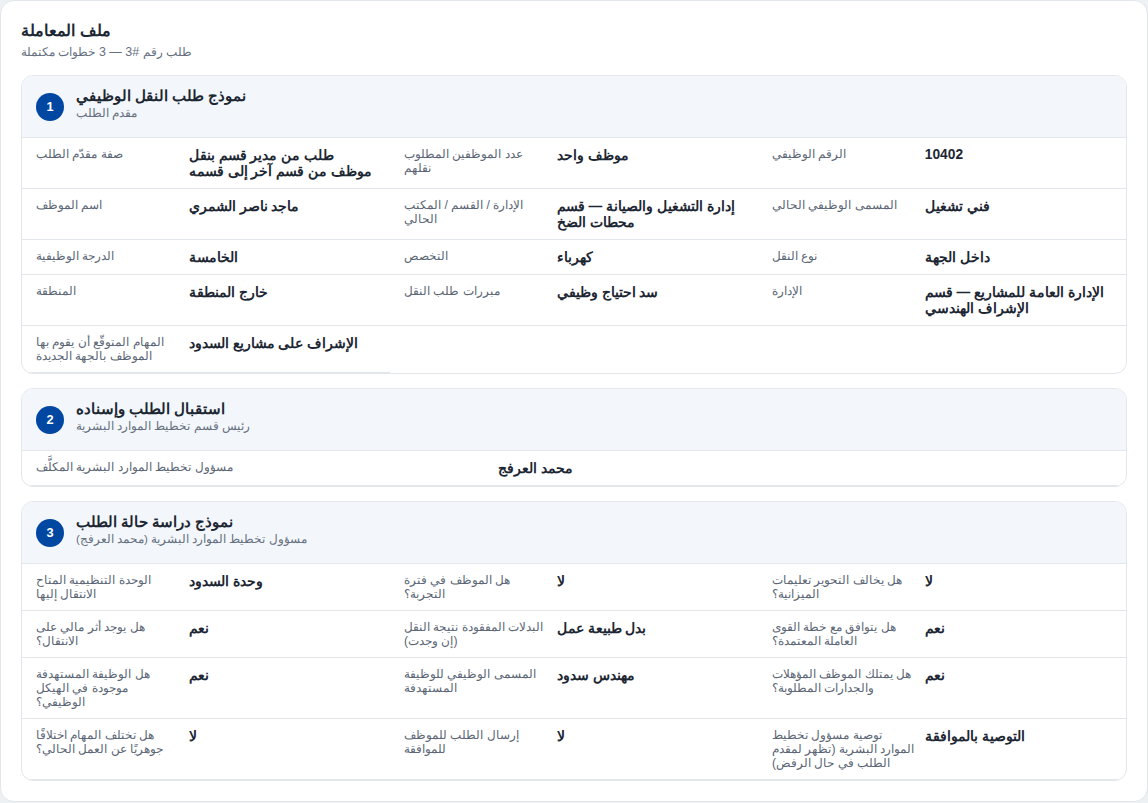
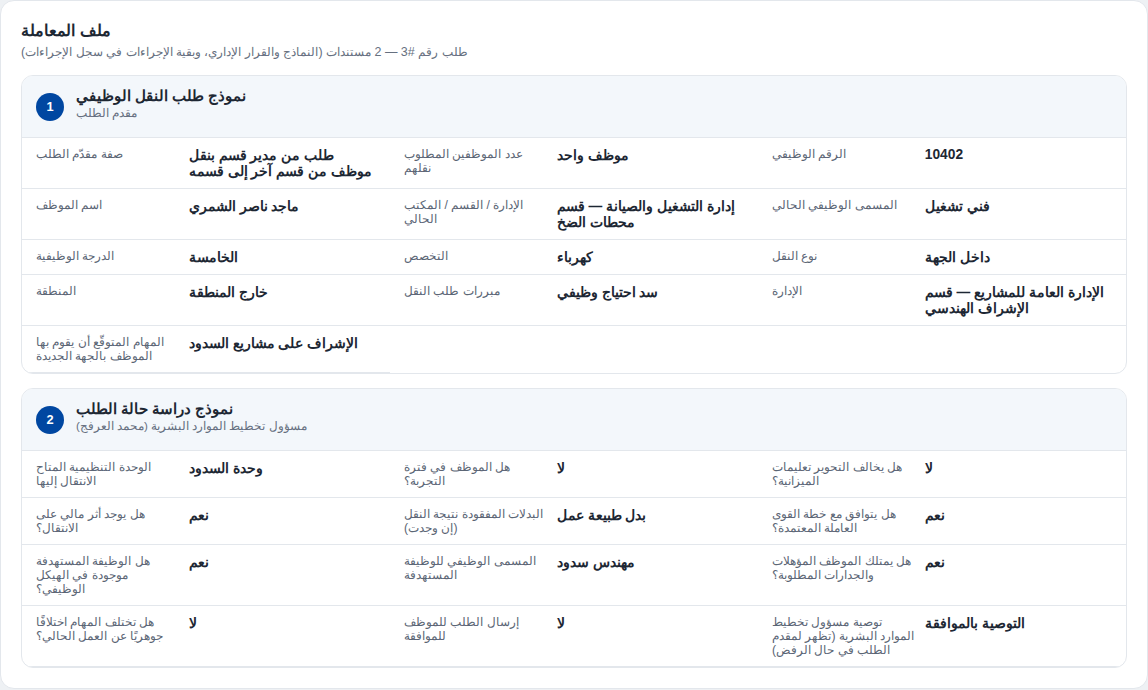
قبول رفض الموظف وتبسيط ملف المعاملة
- عند رفض الموظف: خيار مستويات الاعتماد الوحيد "قبول الرفض"، ثم يُغلق الطلب بالرفض
- ملف المعاملة يعرض النماذج والقرار الإداري فقط، وبقية الإجراءات وملاحظاتها في سجل الإجراءات

Claude-Session: https://claude.ai/code/session_011ScrgTePbEPRnczQ9B2eJd

diff --git a/assets/js/config/form-schemas.js b/assets/js/config/form-schemas.js
@@ -36,7 +36,6 @@ function approvalSchema(actorName, nextIfApprove, isFinal){
     phase:"purple", actor: actorName,
     title: "اعتماد " + actorName,
     desc: isFinal ? "المستوى الرابع والأخير في سلسلة الاعتماد — القرار هنا نهائي." : "أحد مستويات سلسلة الاعتماد الإداري بالتسلسل.",
-    showRefusalNotice: true,
     sections: [{ title:"القرار", fields:[
       {key:commentKey, label:"ملاحظات (إلزامي عند الرفض أو الإرجاع)", type:"textarea"}
     ]}],
@@ -67,12 +66,27 @@ function rejectionReviewSchema(actorName, nextIfApprove){
   };
 }
 
-// رفض الموظف المطلوب نقله: الإجراء الوحيد لمسؤول التخطيط هو إرسال الطلب لتسلسل الموافقات لإعلامهم
+// رفض الموظف المطلوب نقله: الإجراء الوحيد لمسؤول التخطيط هو إرسال الطلب لتسلسل الموافقات لإعلامهم،
+// وخيارهم الوحيد "قبول الرفض"، وبعد قبول الجميع يُغلق الطلب بالرفض
 const employeeRefused = d => Object.values(d.employeeResponses || {}).some(v => v.startsWith("لا"));
+const REFUSAL_REASON = "رفض الموظف المطلوب نقله النقل، وقبلت جميع مستويات الاعتماد رفضه.";
+
+function acknowledgeSchema(actorName, next){
+  return {
+    phase:"coral", actor: actorName,
+    title: "العلم برفض الموظف — " + actorName,
+    desc: "رفض الموظف المطلوب نقله النقل، وأرسل مسؤول التخطيط الطلب لإعلامك. الخيار المتاح هو قبول الرفض، وبعد قبول جميع المستويات يُغلق الطلب بالرفض.",
+    showEmployeeResponses: true,
+    sections: [],
+    decisions: [
+      {label:"قبول الرفض", next, kind:"primary", reasonFn: () => REFUSAL_REASON}
+    ]
+  };
+}
 
 const FORM_SCHEMAS = {
   draft: {
-    phase:"teal", actor:ROLE.applicant, title:"نموذج طلب النقل الوظيفي",
+    phase:"teal", actor:ROLE.applicant, title:"نموذج طلب النقل الوظيفي", caseForm:true,
     sections:[
       { title:"صفة مقدّم الطلب", fields:[
         {key:"applicantCapacity", label:"صفة مقدّم الطلب", type:"select", options:Object.values(CAPACITY), required:true},
@@ -123,11 +137,12 @@ const FORM_SCHEMAS = {
         {key:"assignedPlanner", label:"مسؤول تخطيط الموارد البشرية المكلَّف", type:"select", options:PLANNERS, required:true}
       ]}
     ],
-    submitLabel:"إسناد الطلب", next:"study"
+    submitLabel:"إسناد الطلب", next:"study",
+    historyNote: d => "المسؤول المكلَّف: " + d.assignedPlanner
   },
 
   study: {
-    phase:"gray", actor:ROLE.planner, title:"نموذج دراسة حالة الطلب",
+    phase:"gray", actor:ROLE.planner, title:"نموذج دراسة حالة الطلب", caseForm:true,
     desc:"دراسة الاحتياج ومطابقة الوظيفة، وتحديد البدلات المفقودة وما إذا كان الطلب سيُرسل للموظف لأخذ موافقته.",
     sections:[
       { title:"بيانات الطلب", fields:[
@@ -160,12 +175,13 @@ const FORM_SCHEMAS = {
       {label:"إرسال الطلب للموافقة", kind:"primary",
         route: d => (!isSelfRequest(d) && d.sendToEmployee === "نعم") ? "employee" : "appr1"},
       // الرفض يكفيه كتابة التوصية (سبب الرفض)
-      {label:"رفض الطلب وإشعار مقدم الطلب", next:"rej1", kind:"reject", requiredKeys:["studyRecommendation"]}
+      {label:"رفض الطلب وإشعار مقدم الطلب", next:"rej1", kind:"reject", requiredKeys:["studyRecommendation"],
+        noteFn: d => "التوصية: " + d.studyRecommendation}
     ]
   },
 
   employee: {
-    phase:"amber", actor:ROLE.employee, title:"موافقة الموظف على النقل",
+    phase:"amber", actor:ROLE.employee, title:"نموذج موافقة الموظف على النقل", caseForm:true,
     desc:"اطّلع على ملخص النقل أدناه، ثم حدّد موافقتك.",
     custom:"employee",
     sections:[],
@@ -185,8 +201,9 @@ const FORM_SCHEMAS = {
     ],
     decisions:[
       {label:"إرسال الطلب لتسلسل الموافقات", next:"appr1", kind:"primary", showIf: d => !employeeRefused(d)},
-      {label:"رفض الطلب وإشعار مقدم الطلب", next:"rej1", kind:"reject", showIf: d => !employeeRefused(d)},
-      {label:"إرسال الطلب للموافقات لإعلامهم", next:"appr1", kind:"primary", showIf: employeeRefused}
+      {label:"رفض الطلب وإشعار مقدم الطلب", next:"rej1", kind:"reject", showIf: d => !employeeRefused(d),
+        noteFn: d => "التوصية: " + d.studyRecommendation},
+      {label:"إرسال الطلب للموافقات لإعلامهم", next:"ack1", kind:"primary", showIf: employeeRefused}
     ]
   },
 
@@ -198,6 +215,11 @@ const FORM_SCHEMAS = {
   rej1: rejectionReviewSchema(ROLE.deputy,  "rej2"),
   rej2: rejectionReviewSchema(ROLE.planMgr, "rej3"),
   rej3: rejectionReviewSchema(ROLE.hrMgr,   "rejected"),
+
+  ack1: acknowledgeSchema(ROLE.deputy,    "ack2"),
+  ack2: acknowledgeSchema(ROLE.planMgr,   "ack3"),
+  ack3: acknowledgeSchema(ROLE.hrMgr,     "ack4"),
+  ack4: acknowledgeSchema(ROLE.president, "rejected"),
 
   returned: {
     phase:"amber", actor:ROLE.planner, title:"طلب مُعاد للتعديل",

diff --git a/assets/js/ui/render.js b/assets/js/ui/render.js
@@ -200,9 +200,6 @@ function renderStepExtras(r, st){
     html += `<div class="notice amber"><b>سبب الإرجاع:</b> ${esc(r.returnReason)}</div>`;
   if (st.showRecommendation)
     html += `<div class="notice coral"><b>توصية مسؤول التخطيط (سبب الرفض):</b> ${esc(r.data.studyRecommendation || "—")}</div>`;
-  if (st.showRefusalNotice && employeeRefused(r.data))
-    html += `<div class="notice coral"><b>للعلم:</b> رفض الموظف المطلوب نقله النقل، وأرسل مسؤول التخطيط الطلب لإعلامكم بذلك.</div>`
-      + renderEmployeeResponses(r);
   if (st.showEmployeeResponses) html += renderEmployeeResponses(r);
   if (st.custom === "employee") html += renderEmployeeStep(r);
   return html;
@@ -216,7 +213,7 @@ function renderActionCard(r){
   if (st.terminal === "ok"){
     return selectedRole === ROLE.employee
       ? `<p class="desc">تم اعتماد نقلك وصدر القرار الإداري.</p>`
-      : `<p class="desc">اكتمل الطلب #${reqId}. القرار الإداري الصادر:</p>${renderDecisionSheet(r)}`;
+      : `<p class="desc">اكتمل الطلب #${reqId}. القرار الإداري محفوظ في ملف المعاملة أدناه، ويمكن طباعته من هناك.</p>`;
   }
   if (st.terminal === "bad"){
     return `<p class="desc">انتهى مسار الطلب #${reqId} بالرفض، وسبب الرفض موضّح أعلاه.</p>`;
@@ -289,9 +286,14 @@ function renderWorkspace(){
   host.innerHTML = html;
 }
 
+// ملف المعاملة: النماذج فقط (أحدث نسخة من كل نموذج) والقرار الإداري بعد صدوره
 function renderCaseFile(r){
-  const steps = r.completedSteps;
-  const body = steps.length ? steps.map((s, i) => `<article class="case-step">
+  const latest = new Map();
+  r.completedSteps.forEach(s => { latest.delete(s.id); latest.set(s.id, s); });
+  const steps = [...latest.values()];
+  const hasDecision = r.currentState === "executed";
+  const count = steps.length + (hasDecision ? 1 : 0);
+  const forms = steps.map((s, i) => `<article class="case-step">
       <div class="case-head">
         <span class="case-num">${i + 1}</span>
         <div class="case-titles"><h4>${esc(s.title)}</h4><div class="who">${esc(s.actor || "")}</div></div>
@@ -299,16 +301,25 @@ function renderCaseFile(r){
       ${s.entries.length
         ? `<dl class="case-kv">${s.entries.map(e => `<div class="case-row"><dt>${esc(e.label)}</dt><dd>${esc(e.value)}</dd></div>`).join("")}</dl>`
         : `<p class="case-empty">لا توجد بيانات مُدخلة في هذه الخطوة.</p>`}
-    </article>`).join("")
-    : `<div class="empty-case">لم تُعتمد أي بيانات بعد. تظهر هنا بيانات كل خطوة بعد إكمالها.</div>`;
+    </article>`).join("");
+  const decision = hasDecision ? `<article class="case-step">
+      <div class="case-head">
+        <span class="case-num">${steps.length + 1}</span>
+        <div class="case-titles"><h4>القرار الإداري</h4><div class="who">صدر بتاريخ ${esc(formatDecisionDate(r.data.decisionDate))}</div></div>
+      </div>
+      <div class="case-decision">${renderDecisionSheet(r)}</div>
+    </article>` : "";
+  const body = count ? forms + decision
+    : `<div class="empty-case">لا توجد نماذج مكتملة بعد. تظهر هنا النماذج بعد تعبئتها، والقرار الإداري بعد صدوره.</div>`;
   return `<div class="card case-card"><h2>ملف المعاملة</h2>
-    <p class="sub">طلب رقم #${r.id} — ${steps.length} ${steps.length === 1 ? "خطوة مكتملة" : "خطوات مكتملة"}</p>
+    <p class="sub">طلب رقم #${r.id} — ${count} ${count === 1 ? "مستند" : "مستندات"} (النماذج والقرار الإداري، وبقية الإجراءات في سجل الإجراءات)</p>
     <div class="case-list">${body}</div></div>`;
 }
 
 function renderTimeline(r){
   const items = r.history.length ? r.history.map(h => `
-    <li><div class="tl-state">${esc(h.action)}</div><div class="tl-meta">بواسطة: ${esc(h.actor)} — التالي: ${esc(h.result)}</div></li>
+    <li><div class="tl-state">${esc(h.action)}</div><div class="tl-meta">بواسطة: ${esc(h.actor)} — التالي: ${esc(h.result)}</div>
+    ${h.note ? `<div class="tl-note">${esc(h.note)}</div>` : ""}</li>
   `).join("") : `<li class="tl-meta">لم يبدأ أي إجراء بعد.</li>`;
   return `<div class="card"><h2>سجل الإجراءات</h2><ul class="timeline">${items}</ul></div>`;
 }

diff --git a/assets/js/core/workflow.js b/assets/js/core/workflow.js
@@ -13,10 +13,11 @@ function actorLabel(r, st){
   return st.actor === ROLE.planner && r.data.assignedPlanner ? `${st.actor} (${r.data.assignedPlanner})` : st.actor;
 }
 
-function moveTo(r, schema, next, actionLabel){
+// ملف المعاملة يحفظ النماذج فقط (caseForm)، وبقية الخطوات تظهر في سجل الإجراءات مع ملاحظتها
+function moveTo(r, schema, next, actionLabel, note){
   const actor = actorLabel(r, schema);
-  r.completedSteps.push(snapshotSchema(r.currentState, schema, r.data, actor));
-  r.history.push({ actor, action: actionLabel, result: FORM_SCHEMAS[next].title || next });
+  if (schema.caseForm) r.completedSteps.push(snapshotSchema(r.currentState, schema, r.data, actor));
+  r.history.push({ actor, action: actionLabel, result: FORM_SCHEMAS[next].title || next, note: note || "" });
   if (r.currentState === "draft") resetForResubmission(r);
   r.currentState = next;
   if (FORM_SCHEMAS[next].onEnter) FORM_SCHEMAS[next].onEnter(r);
@@ -45,7 +46,7 @@ function submitStep(reqId){
   if (missing.length){ errorMsg = "الرجاء إكمال ما يلي: " + missing.join("، "); render(); return; }
   errorMsg = "";
   const next = schema.route ? schema.route(r.data) : schema.next;
-  moveTo(r, schema, next, schema.submitLabel || "تنفيذ");
+  moveTo(r, schema, next, schema.submitLabel || "تنفيذ", schema.historyNote ? schema.historyNote(r.data) : "");
   render();
 }
 
@@ -70,7 +71,7 @@ function submitDecision(reqId, idx){
     r.lastReason = decision.reasonFn ? decision.reasonFn(r.data) : `${decision.reason}${comment ? ": " + comment : ""}`;
   }
   if (next === "returned") r.returnReason = `${decision.reason}: ${comment}`;
-  moveTo(r, schema, next, decision.label);
+  moveTo(r, schema, next, decision.label, decision.noteFn ? decision.noteFn(r.data) : (comment ? "الملاحظات: " + comment : ""));
   render();
 }
 

diff --git a/assets/css/main.css b/assets/css/main.css
@@ -261,6 +261,8 @@ fieldset legend { font-size:.83rem; font-weight:700; padding:0 8px; color:var(--
 .case-row dt { font-size:.76rem; color:var(--case-dt); font-weight:500; }
 .case-row dd { margin:0; font-size:.86rem; font-weight:700; color:var(--ink); overflow-wrap:anywhere; }
 .case-empty { margin:0; padding:10px 14px; font-size:.8rem; color:var(--muted); }
+.case-decision { padding:16px 14px 4px; background:var(--bg); }
+.tl-note { font-size:.74rem; color:var(--ink); background:var(--bg); border-radius:6px; padding:4px 8px; margin-top:5px; line-height:1.6; }
 @media (max-width:560px) {
   .case-kv { grid-template-columns:1fr; }
   .case-row { grid-template-columns:1fr; gap:2px; }

diff --git a/docs/workflow.md b/docs/workflow.md
@@ -26,6 +26,8 @@ flowchart TD
     rej2 --> rej3["rej3<br/>اعتماد الرفض — مدير الموارد البشرية"]
     rej3 --> rejected
     rej1 & rej2 & rej3 -- "عدم اعتماد الرفض" --> planner_decision
+    planner_decision -- "رفض الموظف: إرسال للموافقات لإعلامهم" --> ack1["ack1…ack4<br/>قبول رفض الموظف<br/>(النائب ← مدير التخطيط ← مدير الموارد البشرية ← رئيس المؤسسة)"]
+    ack1 -- "قبول الرفض من الجميع" --> rejected
 ```
 
 ## المراحل
@@ -36,7 +38,8 @@ flowchart TD
 | `head_review` | استقبال الطلب وإسناده لأحد مسؤولي التخطيط الخمسة | رئيس قسم تخطيط الموارد البشرية | `study` |
 | `study` | دراسة حالة الطلب | مسؤول التخطيط المكلَّف | "إرسال الطلب للموافقة" ← `employee` إذا اختير إرساله للموظف، وإلا `appr1` / "رفض الطلب وإشعار مقدم الطلب" ← `rej1` |
 | `employee` | موافقة الموظف (لكل موظف في الطلب) | الموظف المطلوب نقله | `planner_decision` |
-| `planner_decision` | مراجعة رد الموظف | مسؤول التخطيط المكلَّف | إذا وافق الموظف: إرسال لتسلسل الموافقات ← `appr1` / رفض ← `rej1`. إذا رفض: "إرسال الطلب للموافقات لإعلامهم" ← `appr1` فقط |
+| `planner_decision` | مراجعة رد الموظف | مسؤول التخطيط المكلَّف | إذا وافق الموظف: إرسال لتسلسل الموافقات ← `appr1` / رفض ← `rej1`. إذا رفض: "إرسال الطلب للموافقات لإعلامهم" ← `ack1` فقط |
+| `ack1` … `ack4` | العلم برفض الموظف | النائب ← مدير التخطيط ← مدير الموارد البشرية ← رئيس المؤسسة | "قبول الرفض" فقط ← التالي، ثم `rejected` |
 | `appr1` … `appr4` | سلسلة الاعتماد | النائب ← مدير التخطيط ← مدير الموارد البشرية ← رئيس المؤسسة | اعتماد ← التالي / رفض ← `rejected` / إرجاع ← `returned` |
 | `rej1` … `rej3` | اعتماد رفض مسؤول التخطيط | النائب ← مدير التخطيط ← مدير الموارد البشرية | اعتماد ← التالي ثم `rejected` / عدم اعتماد ← `planner_decision` |
 | `returned` | طلب مُعاد من سلسلة الاعتماد | مسؤول التخطيط المكلَّف | `draft` (يعدّله مقدم الطلب ويعيد تقديمه بنفس الخطوات) |
@@ -52,7 +55,8 @@ flowchart TD
 - **الإسناد:** خطوات مسؤول التخطيط متاحة فقط للمسؤول الذي أسند إليه رئيس القسم الطلب، ويطّلع بقية المسؤولين عليه دون اتخاذ إجراء. يظهر اسم المسؤول المكلَّف في لوحة الطلبات.
 - **موافقة الموظف:** خيار "إرسال الطلب للموظف للموافقة" لا يظهر إذا كان الموظف نفسه مقدّم الطلب. يرى الموظف ملخصًا يوضح البدلات المفقودة والمنطقة والمهام الجديدة، ولا يرى ملف المعاملة ولا سجل الإجراءات.
 - **دراسة الحالة:** تنتهي بزرين: "إرسال الطلب للموافقة" (للموظف إن اختير ذلك، وإلا لتسلسل الموافقات مباشرة) و"رفض الطلب وإشعار مقدم الطلب" الذي يكفيه كتابة التوصية.
-- **رفض الموظف للنقل:** الإجراء الوحيد المتاح لمسؤول التخطيط هو إرسال الطلب لتسلسل الموافقات لإعلامهم، ويظهر لهم تنبيه برفض الموظف.
+- **رفض الموظف للنقل:** الإجراء الوحيد المتاح لمسؤول التخطيط هو إرسال الطلب لتسلسل الموافقات لإعلامهم. خيارهم الوحيد "قبول الرفض"، وبعد قبول الجميع يُغلق الطلب بالرفض.
+- **ملف المعاملة:** يعرض النماذج فقط (طلب النقل، دراسة الحالة، موافقة الموظف) بأحدث نسخة منها، والقرار الإداري بعد صدوره. بقية الإجراءات (الإسناد، الاعتمادات، الإرجاع، الرفض وملاحظاتها) تظهر في سجل الإجراءات.
 - **الرفض:** رفض مسؤول التخطيط يحتاج إلى اعتماد النائب ثم المدير ثم مدير الموارد البشرية، ولا يصل لرئيس المؤسسة. يرى مقدم الطلب عند الرفض التوصية (سبب الرفض) فقط.
 - **الإرجاع للتعديل:** يصل أولًا لمسؤول التخطيط، ثم يرسله لمقدم الطلب، فيعدّله ويعيد تقديمه ويمر بنفس الخطوات من جديد.
 - **الأثر المالي:** سؤال للتوثيق فقط، ولا يترتب عليه أي مسار.
